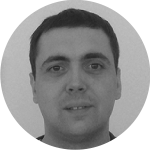
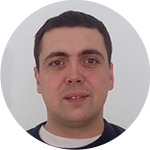
тысяча мелких исправлений и фото в отзывах

diff --git a/index.html b/index.html
@@ -15,7 +15,7 @@
 <body>
 <div class="mainframe">
 	<div class="topline">
-		<div class="logo"><a href="http://best-quest.ru">BQ</a></div><div class="batship"><a href="index.html">Морской Бой</a></div><!--<span class="sherlock"><a href="sh.html">Шерлок</a></span>--><!--<span class="download">Презентация&nbsp;&nbsp;<img src="./img/download.png" style="vertical-align: middle;"></span>--><div class="vk"><a href="http://vk.com/bqbsgame"><img src="./img/vk.png" style="vertical-align: middle;"></a></div><div class="claim"><a href="#reclaim">Заявка</a></div><!--<span class="contacts">Контакты</span>-->
+		<div class="logo"><a href="http://best-quest.ru">BQ</a></div><div class="batship"><a href="index.html">Морской Бой</a></div><!--<span class="sherlock"><a href="sh.html">Шерлок</a></span>--><!--<span class="download">Презентация&nbsp;&nbsp;<img src="./img/download.png" style="vertical-align: middle;"></span>--><div class="vk"><a href="http://vk.com/bqbsgame"><img src="./img/vk.png" style="vertical-align: middle;"></a></div><div class="menu-mailto"><a href="mailto:info@best-quest.ru">info@best-quest.ru</a></div><div class="menu-phone">8 921 976 38 76</div><div class="claim"><a href="#reclaim">Заявка</a></div><!--<span class="contacts">Контакты</span>-->
 	</div>
 	<div class="firstslide"></div>
 	<div class="maintext">
@@ -24,7 +24,7 @@
 	</div>
 	<div class="kawasaki">
 		<div class="yamaha">
-		<div class="kawasaki-text">Почему игра? В играх, как в зеркале, отражается то, что человек знает и чему необходимо<br>научиться. В играх отражается поведение. Это системы мгновенной обратной связи.<br>Вместо того, чтобы слушать скучные лекции по командообразованию, в игре вы получаете<br> индивидуальный урок, отвечающий вашим конкретным потребностям.</div>
+		<div class="kawasaki-text">Почему игра? В играх, как в зеркале, отражается то, что человек знает и чему необходимо научиться. В играх отражается поведение. Это системы мгновенной обратной связи. Вместо того, чтобы слушать скучные лекции по командообразованию, в игре вы получаете  индивидуальный урок, отвечающий вашим конкретным потребностям.</div>
 		<div class="kawasaki-arrow"></div>
 		<div class="kawasaki-face">
 			<img src="./img/robert.png">
@@ -116,7 +116,7 @@
 		<div style="clear:both;"></div>
 		<div class="demogamebg">
 			<div class="startplug" id="startplug">
-				<div class="startdemo" id="startdemo"><img src="./img/start_demo.png" style="margin-bottom:30px;"><br>Попробовать тестовую<br>игру</div>
+				<div class="startdemo" id="startdemo"><img src="./img/start_demo.png" style="margin-bottom:30px;"><br>Попробовать<br>демо игру</div>
 			</div>
 			<div class="wrapper blurred">
 				<div class="demoheader">
@@ -284,7 +284,7 @@
 	</div>
 	<div style="clear:both;"></div>
 	<div class="bottomline">
-		<span class="logo"><a href="http://best-quest.ru">BQ</a></span><span class="download"><a href="http://best-quest.ru">Best-Quest.ru</a></span><span class="sherlock"><a href="bqbs.ru">BQBS.ru</a></span><span class="vk"><a href="http://vk.com/bqbsgame"><img src="./img/vk.png" style="vertical-align: middle;"></a></span><span class="contacts"><a href="http://formazon.com">Дизайн сайта formazon.com</a></span>
+		<span class="logo"><a href="http://best-quest.ru">BQ</a></span><span class="download"><a href="http://best-quest.ru">Best-Quest.ru</a></span><span class="sherlock"><a href="bqbs.ru">BQBS.ru</a></span><span class="vk"><a href="http://vk.com/bqbsgame"><img src="./img/vk.png" style="vertical-align: middle;"></a></span><div class="contacts"><a href="http://formazon.com">Дизайн сайта formazon.com</a></span>
 	</div>
 </div>
 </body>

diff --git a/css/land.css b/css/land.css
@@ -50,7 +50,7 @@ a:visited {
 	padding: 0 20px;
 	font-weight: normal;
 }
-.claim, .vk {
+.claim, .vk, .menu-mailto, .menu-phone {
 	float: right;
 	margin-right: 25px;
 	padding: 0 20px;
@@ -127,10 +127,12 @@ a:visited {
 	float: left;
 	margin-top: 75px;
 	background-color: #fff;
-	padding: 30px;
+	padding: 25px 30px;
 	width: 800px;
 	text-align: left;
 	letter-spacing: 0pt;
+	font-size: 110%;
+	line-height: 24pt;
 }
 .kawasaki-arrow {
 	float: left;
@@ -175,6 +177,7 @@ a:visited {
 	text-align: left;
 	width: 400px;
 	padding-top: 30px;
+	line-height: 20pt;
 	
 }
 .bignum {
@@ -255,6 +258,7 @@ a:visited {
 	margin-left: 80px;
 	height: 100%;
 	text-align: center;
+	color: #aaaaaa;
 }
 .one-icon.actual {
 	color: rgb(204,51,51);
@@ -467,7 +471,7 @@ a:visited {
 /*клиенты*/
 .clients {
 	width: 100%;
-	border-top: 1.5px solid #a9a9a9;
+	border-top: 1.5px solid #aaaaaa;
 	padding-top: 25px;
 	margin-top: 50px;
 	text-align: center;
@@ -485,7 +489,7 @@ a:visited {
 }
 fieldset {
 	margin: 0 auto;
-	border: solid 1px #a9a9a9;
+	border: solid 1px #aaaaaa;
 	-webkit-border-radius: 20px;
 	border-radius: 20px;
 	margin-bottom: 80px;
@@ -533,6 +537,7 @@ input[type="submit"].reclaim-form {
 	background-color: rgb(204,51,51);
 	color: #fff;
 	height: 55px;
+	font-size: 105%;
 }
 input[type="submit"].reclaim-form:hover {
 	background-color: #f7cf00;
@@ -563,16 +568,17 @@ textarea.reclaim-form {
 /*Календарь*/
 .ui-datepicker {
 	background-color: #ededed;
+	border: 1px solid #aaaaaa;
 }
 .ui-datepicker-header {
 	background-color: #ededed;
 	text-align: center;
 	color: #000;
 	padding: 5px 0;
-	border-bottom: 1px solid;
+	border-bottom: 1px solid #aaaaaa;
 }
 .ui-datepicker-header a {
-	color: #000;
+	color: rgb(204,51,51);
 	cursor: pointer;
 }
 .ui-datepicker-prev {
